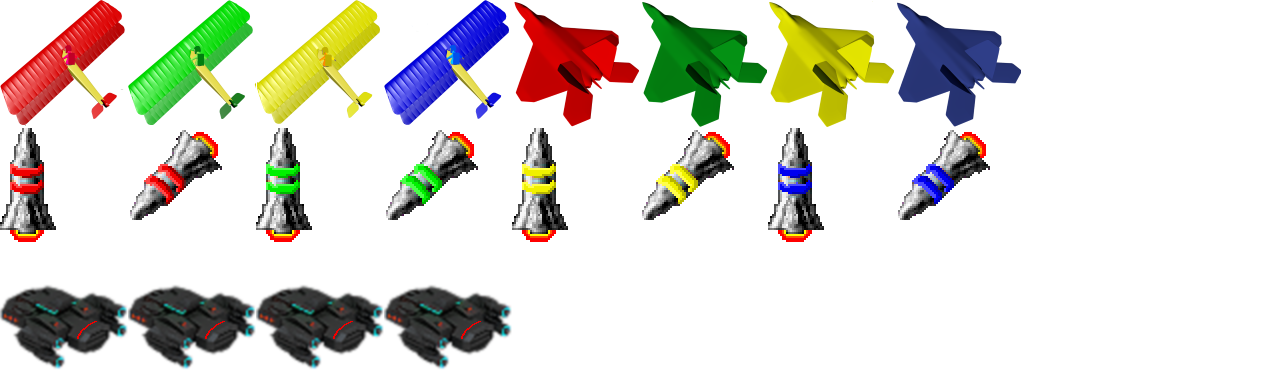
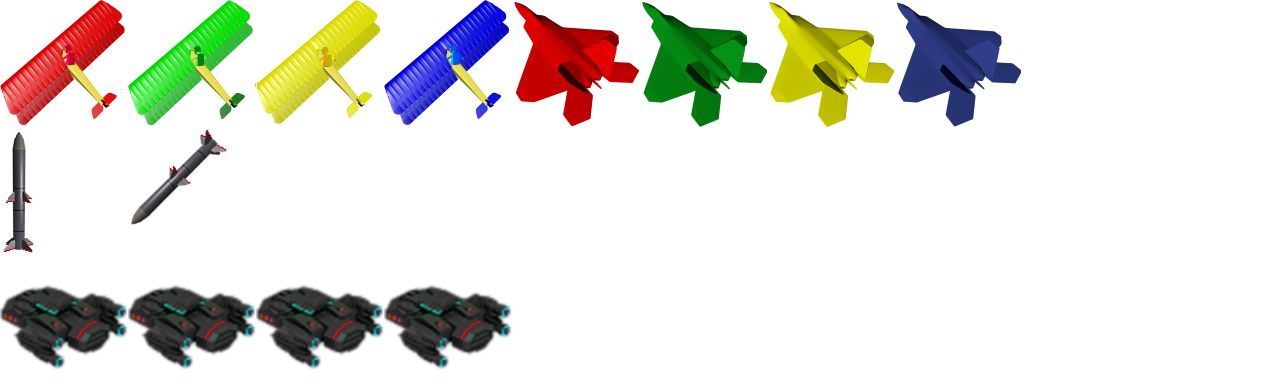
UPDATED Improved nuclear weapons graphics. Also fix bug for jet particle system when view in non-player sectors.

diff --git a/readme.html b/readme.html
@@ -549,7 +549,8 @@ Version 0.28 (Work in progress)
 FIXED   Soldier walking speed not in sync with animation.
 ADDED   New graphics for player avatars (thanks to Macrofeet).
 ADDED   Exhaust effect for jets.
-UPDATED Improved biplanes and jets (thanks to Macrofeet).
+UPDATED Improved nuclear weapons graphics.
+UPDATED Improved biplanes and jets graphics (thanks to Macrofeet).
 UPDATED Improved background graphics "clutter".
 UPDATED Skulls/bones background graphics when a sector is nuked.
 UPDATED Improved coastlines for maps.
@@ -1041,6 +1042,7 @@ First public release.
 <li>attacker_ammo.png, "Bomb" icon - from <a href="http://opengameart.org/content/war-on-water-gfx">http://opengameart.org/content/war-on-water-gfx</a>, by yd, under <a href="http://creativecommons.org/publicdomain/zero/1.0/">CC0</a>.</li>
 <li>attacker_flying.png, Biplanes - by Macrofeet under <a href="http://creativecommons.org/licenses/by/3.0/">CC BY 3.0</a>, this includes material from http://www.blendswap.com/blends/view/78967 "Toy Plane" by Fabien under <a href="http://creativecommons.org/licenses/by/3.0/">CC BY 3.0</a> and http://www.blendswap.com/blends/view/49859 "OldMan" by nicolasbravo1235 under <a href="http://creativecommons.org/licenses/by/3.0/">CC BY 3.0</a>.</li>
 <li>attacker_flying.png, Jets - by Macrofeet under <a href="http://creativecommons.org/publicdomain/zero/1.0/">CC0</a>, this includes material from http://www.blendswap.com/blends/view/4405 "F22 Fighter Jet" by Natholas under CC0.</li>
+<li>attacker_flying.png, defenders.png, Nuclear missile - rendered from <a href="http://opengameart.org/content/aim-120a-amraam">http://opengameart.org/content/aim-120a-amraam</a>, by Mystic Mike (Mike Hosker), under GPL v2 (no need to credit me for renderings).</li>
 <li>attacker_walking_0_*.png, attacker_walking_1_*.png, attacker_walking_2_*.png, attacker_walking_3_*.png, attacker_walking_10_*.png, "Crossbow" defender, 10000BC, 2000BC, 1AD, 900AD, 1400AD, 1944AD, 2100AD and unarmed people icons - from <a href="http://opengameart.org/content/lpc-medieval-fantasy-character-sprites">http://opengameart.org/content/lpc-medieval-fantasy-character-sprites</a>, by wulax, under <a href="http://creativecommons.org/licenses/by-sa/3.0/">CC BY-SA 3.0</a> or later, or the GPL v3 or later.</li>
 <li>attacker_walking_5.png, "Factory" icon, "Stick", "Spear", "Shortbow", "Cauldron of Oil", "Crossbow", "Rifle", "Machine Gun", "Rocket" defenders, 1850AD, 1914AD, 1980AD people icons - from <a href="http://freeciv.wikia.com/wiki/Main_Page">FreeCiv</a>, under the GPL v2.</li>
 <li>attacker_walking_4_*.png - from <a href="http://opengameart.org/content/catapult">http://opengameart.org/content/catapult</a>, by yd, under <a href="http://creativecommons.org/publicdomain/zero/1.0/">CC0</a>.</li>

diff --git a/game.cpp b/game.cpp
@@ -1707,7 +1707,7 @@ bool loadOldImages() {
 	attackers_ammo[9][ATTACKER_AMMO_BOMB] = attackers_ammo[6][ATTACKER_AMMO_BOMB];
 
     for(int i=0;i<n_saucer_frames_c;i++) {
-        for(int k=0;k<4;k++) {
+        for(int k=0;k<n_players_c;k++) {
             int r = 0, g = 0, b = 0;
             PlayerType::getColour(&r, &g, &b, (PlayerType::PlayerTypeID)k);
             saucers[k][i]->remap(240, 0, 0, r, g, b);
@@ -1717,7 +1717,7 @@ bool loadOldImages() {
         if( defenders[0][i][0] == NULL )
             continue;
         for(int j=0;j<n_defender_frames_c;j++) {
-            for(int k=0;k<4;k++) {
+            for(int k=0;k<n_players_c;k++) {
                 int r = 0, g = 0, b = 0;
                 PlayerType::getColour(&r, &g, &b, (PlayerType::PlayerTypeID)k);
                 defenders[k][i][j]->remap(240, 0, 0, r, g, b);
@@ -2268,17 +2268,26 @@ bool loadImages() {
                 processImage(saucers[i][j]);
             }
         }
+        // do remapping before scaling
+		for(int i=0;i<n_players_c;i++) {
+			//nukes[i][0] = gfx_planes->copy(64*i, 32, 32, 32);
+			//nukes[i][1] = gfx_planes->copy(64*i+32, 32, 32, 32);
+			nukes[i][0] = gfx_planes->copy(0, 32, 32, 32);
+			nukes[i][1] = gfx_planes->copy(32, 32, 32, 32);
+			int r = 0, g = 0, b = 0;
+			PlayerType::getColour(&r, &g, &b, (PlayerType::PlayerTypeID)i);
+			for(int j=0;j<2;j++) {
+				nukes[i][j]->remap(240, 0, 0, r, g, b);
+                processImage(nukes[i][j]);
+			}
+		}
+		// now remap
         processImage(gfx_planes);
 		for(int i=0;i<n_players_c;i++) {
 			for(int j=0;j<n_epochs_c;j++)
 				planes[i][j] = NULL;
 			planes[i][6] = gfx_planes->copy(32*i, 0, 32, 32);
 			planes[i][7] = gfx_planes->copy(128+32*i, 0, 32, 32);
-		}
-
-		for(int i=0;i<n_players_c;i++) {
-			nukes[i][0] = gfx_planes->copy(64*i, 32, 32, 32);
-			nukes[i][1] = gfx_planes->copy(64*i+32, 32, 32, 32);
 		}
 
 		Image *gfx_ammo = Image::loadImage(gfx_dir + "attacker_ammo.png");
@@ -2329,7 +2338,7 @@ bool loadImages() {
 			}
         }
         for(int i=0;i<n_saucer_frames_c;i++) {
-            for(int k=0;k<4;k++) {
+            for(int k=0;k<n_players_c;k++) {
                 int r = 0, g = 0, b = 0;
                 PlayerType::getColour(&r, &g, &b, (PlayerType::PlayerTypeID)k);
                 saucers[k][i]->remap(240, 0, 0, r, g, b);
@@ -2339,7 +2348,7 @@ bool loadImages() {
             if( defenders[0][i][0] == NULL )
                 continue;
             for(int j=0;j<n_defender_frames_c;j++) {
-                for(int k=0;k<4;k++) {
+                for(int k=0;k<n_players_c;k++) {
                     int r = 0, g = 0, b = 0;
                     PlayerType::getColour(&r, &g, &b, (PlayerType::PlayerTypeID)k);
                     defenders[k][i][j]->remap(240, 0, 0, r, g, b);
@@ -3174,6 +3183,11 @@ void setGameStateID(GameStateID state) {
 		}
 		for(int i=0;i<n_epochs_c;i++) {
 			Design *design = start_sector->canResearch(Invention::WEAPON, i);
+			if( design != NULL ) {
+				static_cast<PlayingGameState *>(gamestate)->setCurrentDesign(map_x, map_y, design);
+				start_sector->invent(human_player);
+			}
+			design = start_sector->canResearch(Invention::DEFENCE, i);
 			if( design != NULL ) {
 				static_cast<PlayingGameState *>(gamestate)->setCurrentDesign(map_x, map_y, design);
 				start_sector->invent(human_player);

diff --git a/sector.cpp b/sector.cpp
@@ -593,7 +593,7 @@ nuke_by_player(-1), nuke_time(-1),
 population(0), n_designers(0), n_workers(0), n_famount(0),
 current_design(NULL), current_manufacture(NULL),
 researched(0), researched_lasttime(-1), manufactured(0), manufactured_lasttime(-1), growth_lasttime(-1), mined_lasttime(-1), built_lasttime(-1),
-assembled_army(NULL), stored_army(NULL), smokeParticleSystem(NULL), jetParticleSystem(NULL),
+assembled_army(NULL), stored_army(NULL), smokeParticleSystem(NULL), jetParticleSystem(NULL), nukeParticleSystem(NULL),
 gamestate(gamestate)
 {
     //LOG("Sector::Sector(%d,%d,%d)\n",epoch,xpos,ypos);
@@ -660,6 +660,12 @@ gamestate(gamestate)
 		this->jetParticleSystem->setBirthRate(0.25f);
 		this->jetParticleSystem->setLifeExp(600);
 		this->jetParticleSystem->setSize(0.5f);
+
+		this->nukeParticleSystem = new SmokeParticleSystem(smoke_image);
+		this->nukeParticleSystem->setMove(1.5f, -1.5f);
+		this->nukeParticleSystem->setBirthRate(0.25f);
+		this->nukeParticleSystem->setLifeExp(600);
+		this->nukeParticleSystem->setSize(0.5f);
 	}
 
 	initTowerStuff();
@@ -739,6 +745,9 @@ Sector::~Sector() {
 	}
 	if( jetParticleSystem != NULL ) {
 		delete jetParticleSystem;
+	}
+	if( nukeParticleSystem != NULL ) {
+		delete nukeParticleSystem;
 	}
 }
 
@@ -1573,11 +1582,9 @@ void Sector::doPlayer(int client_player) {
 	//LOG("Sector::doPlayer()\n");
 	// stuff for sectors owned by a player
 
+	// n.b., only update the particle systems that are specific to sectors owned by a player
 	if( this->smokeParticleSystem != NULL ) {
 		this->smokeParticleSystem->update();
-	}
-	if( this->jetParticleSystem != NULL ) {
-		this->jetParticleSystem->update();
 	}
 
 	if( gameMode == GAMEMODE_MULTIPLAYER_CLIENT ) {
@@ -1745,6 +1752,14 @@ void Sector::update(int client_player) {
 	//LOG("Sector::update()\n");
 	if( gameMode != GAMEMODE_MULTIPLAYER_CLIENT ) {
 		this->doCombat(client_player);
+	}
+
+	// update particle systems (that aren't done in doPlayer())
+	if( this->jetParticleSystem != NULL ) {
+		this->jetParticleSystem->update();
+	}
+	if( this->nukeParticleSystem != NULL ) {
+		this->nukeParticleSystem->update();
 	}
 
 	if( this->player != -1 ) {

diff --git a/gamestate.cpp b/gamestate.cpp
@@ -1533,11 +1533,14 @@ void PlayingGameState::draw() {
 		ASSERT( alpha >= 0.0 );
 		if( alpha > 1.0 )
 			alpha = 1.0;
-		int sx = 300, sy = 32;
-		int ex = 128, ey = 144;
+		int sx = offset_land_x_c+176, sy = offset_land_y_c-18;
+		int ex = offset_land_x_c+64, ey = offset_land_y_c+94;
 		int xpos = (int)(alpha * ex + (1.0 - alpha) * sx);
 		int ypos = (int)(alpha * ey + (1.0 - alpha) * sy);
 		nukes[nuke_by_player][1]->draw(xpos, ypos);
+		if( current_sector->getNukeParticleSystem() != NULL ) {
+			current_sector->getNukeParticleSystem()->draw(xpos + 23 - 4, ypos + 2 - 4);
+		}
 	}
 
 	// playershields etc

diff --git a/sector.h b/sector.h
@@ -374,6 +374,7 @@ class Sector {
 	int stored_shields[4];
 	SmokeParticleSystem *smokeParticleSystem;
 	SmokeParticleSystem *jetParticleSystem;
+	SmokeParticleSystem *nukeParticleSystem;
 
 	PlayingGameState *gamestate;
 public:
@@ -431,6 +432,12 @@ public:
 	}
 	ParticleSystem *getJetParticleSystem() {
 		return this->jetParticleSystem;
+	}
+	const ParticleSystem *getNukeParticleSystem() const {
+		return this->nukeParticleSystem;
+	}
+	ParticleSystem *getNukeParticleSystem() {
+		return this->nukeParticleSystem;
 	}
 	void setEpoch(int epoch);
 	int getEpoch() const;
